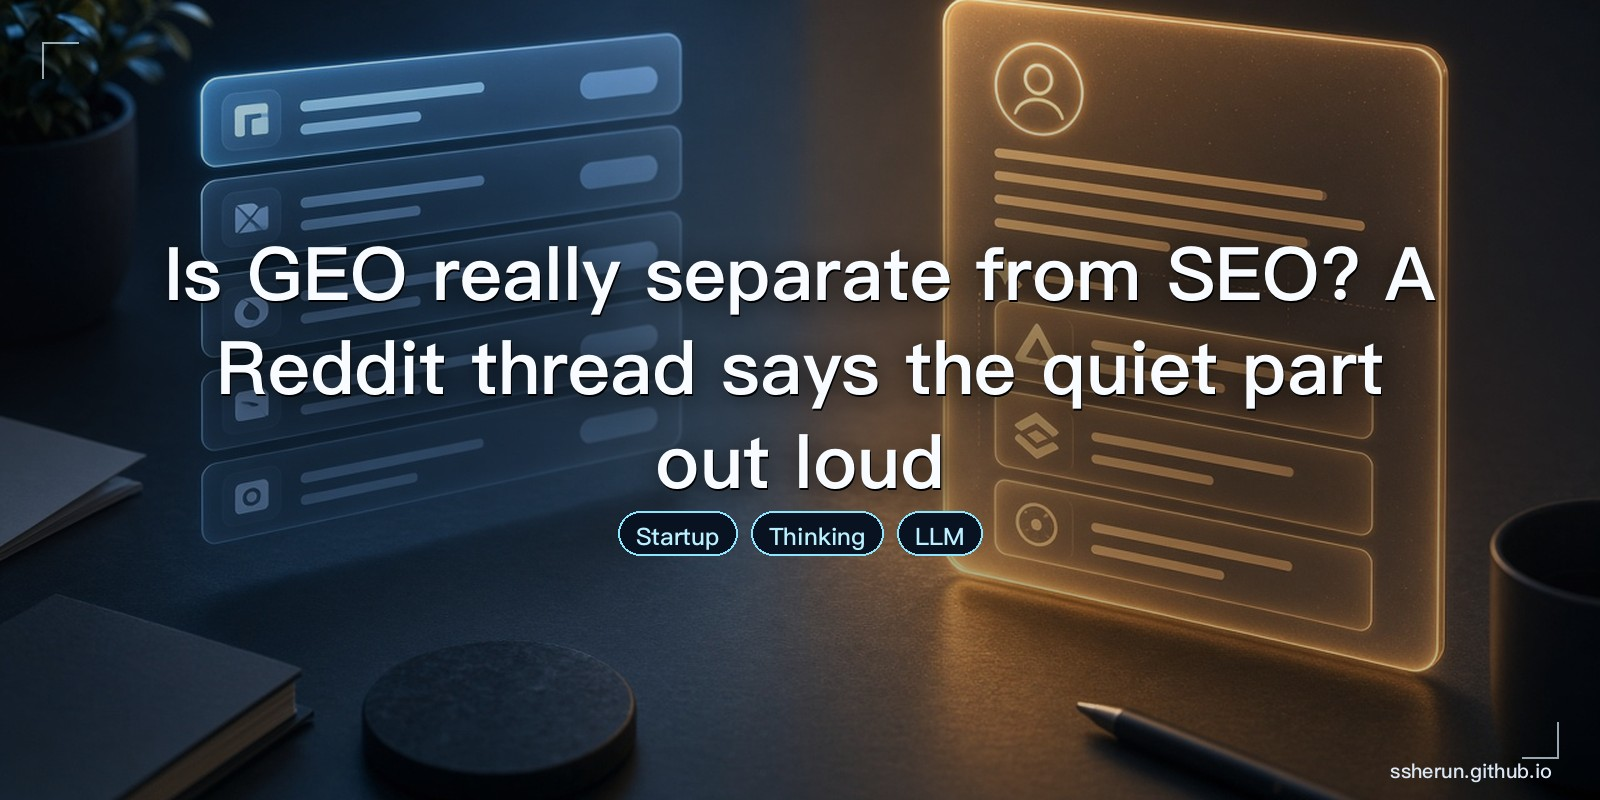
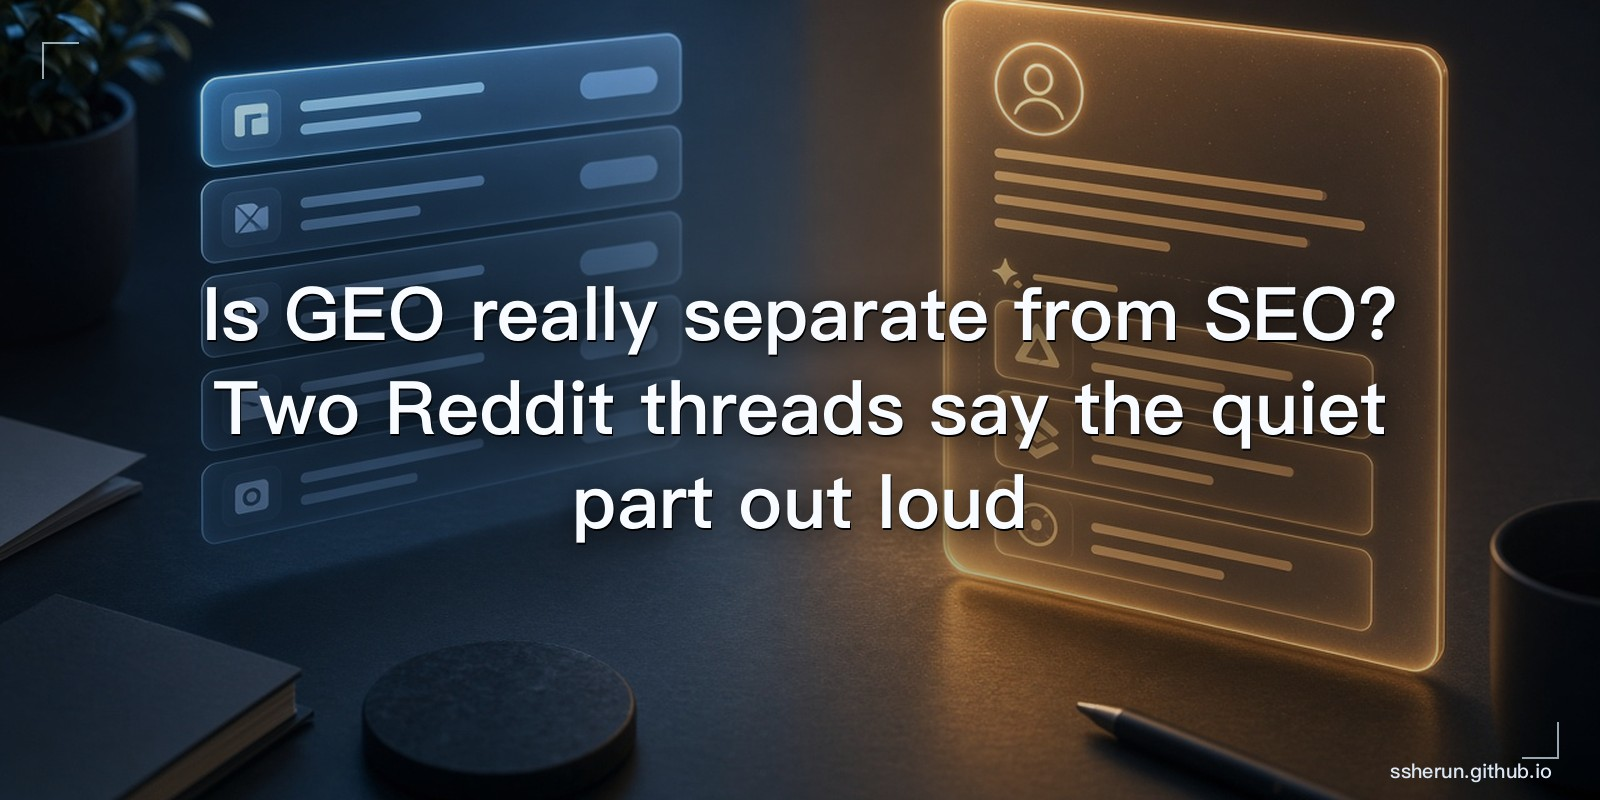
feat: supplement geo-vs-seo post with SEO_LLM field notes

Changed region(s): [[0.0938, 0.3125, 0.9062, 0.7188]]

diff --git a/src/content/blog/geo-vs-seo-same-or-separate.en.md b/src/content/blog/geo-vs-seo-same-or-separate.en.md
@@ -1,6 +1,6 @@
 ---
-title: 'Is GEO really separate from SEO? A Reddit thread says the quiet part out loud'
-description: 'In r/seogrowth someone asks whether GEO is its own discipline. One camp says it’s just SEO done right. The other says the prize changed: citations inside answers, not blue-link rank. Shared foundation; forked goals and metrics.'
+title: 'Is GEO really separate from SEO? Two Reddit threads say the quiet part out loud'
+description: 'r/seogrowth fights over whether GEO is separate; r/SEO_LLM asks what’s actually working. Shared foundation, forked goals. Google still drives most traffic; AI is a discovery channel — track leads, not mention vanity.'
 pubDate: '2026-11-11'
 heroImage: '../../assets/cover-geo-vs-seo-same-or-separate-en.jpg'
 tags: ['创业', '思考', 'LLM']
@@ -8,11 +8,15 @@ lang: en
 translationKey: 'geo-vs-seo-same-or-separate'
 ---
 
-> Source: [Not sure if GEO actually separate from SEO?](https://www.reddit.com/r/seogrowth/comments/1xsuplz/not_sure_if_geo_actually_separate_from_seo/) (r/seogrowth, ~4 upvotes / 17 comments)
+> Sources:
+> - [Not sure if GEO actually separate from SEO?](https://www.reddit.com/r/seogrowth/comments/1xsuplz/not_sure_if_geo_actually_separate_from_seo/) (r/seogrowth, ~4 upvotes / 17 comments)
+> - [What's actually working for you in SEO right now?](https://www.reddit.com/r/SEO_LLM/comments/1xsinnw/whats_actually_working_for_you_in_seo_right_now/) (r/SEO_LLM, ~13 upvotes / 10 comments)
 
 Someone posted in an SEO growth sub: they’re not sure whether **GEO (Generative Engine Optimization)** is actually a discipline separate from SEO.
 
 Small thread. Clear fight. One side: GEO is traditional SEO done properly. The other: the technical base overlaps, but what you win has changed — from “where do I rank?” to “do I get written into the answer?”
+
+Next door in r/SEO_LLM, a blunter question landed: **what’s actually working right now — Google, ChatGPT, or something else?** Almost no acronym theology. Traffic, leads, and what people changed. Read together, the theory fight and the field notes line up.
 
 ## Two camps in the comments
 
@@ -65,18 +69,34 @@ So:
 - “GEO is a brand-new field; old SEO is dead” — also too hot. Without the foundation, answer engines still can’t see you.  
 - Steadier line: **GEO is SEO retargeted for answer engines, plus extra weight on entities, off-site consistency, and citability** — neither magic rebrand nor parallel universe.
 
+## Thread two: what’s actually working
+
+The r/SEO_LLM post skips “is GEO a new field?” and asks “what are you living on?” The consensus is blunt and useful:
+
+1. **Google is still the main traffic driver.** Several practitioners said almost the same thing: Google remains the biggest source; ChatGPT and other AI tools show up, but as a smaller slice — more **discovery channel** than replacement.  
+2. **Most strategy didn’t flip:** backlinks, search intent, topical authority, useful content, clear site structure still matter. One person said the clearest add-on is **using schema more**, plus planning **article series** instead of one-off weekly posts — builds depth and removes topic panic.  
+3. **What changed is how content is structured:** fewer generic keyword piles; more **direct answers to specific questions**, original insight, topical clusters. One commenter credited that style with ChatGPT mentions.  
+4. **Off-site is more than backlinks:** brand mentions on relevant third-party sites, communities, and niche listicles keep coming up; local shops still lean on Google Business Profile + local SEO — a ChatGPT-sourced lead is nice, but advisors care more about calls and customers than mention vanity metrics.  
+5. **Measure down to leads:** a practical GA4 path — Traffic acquisition → Session source → search `chatgpt` / `perplexity` / `copilot` / `gemini`, then inspect landing pages (often how-to and comparison). Add a “how did you hear about us?” field — people often discover you in an AI answer, then return days later via Google or typed URL, and GA4 never joins the two.
+
+One line: thread two answers thread one’s fake question with field data — **not “abandon SEO”; “the SEO foundation still feeds you, and the AI exit needs its own writing, tracking, and proof.”**
+
 ## A practical split (for people drowning in acronyms)
 
 ![Shared first, then the GEO extras](../../assets/inline-geo-vs-seo-same-or-separate-03-en.jpg)
 
-1. **Fix the SEO foundation first:** crawlable, clear IA, page experience, content that states answers. The B2B case in the thread moved AI visibility mostly with that.  
-2. **Add GEO-specific moves:** entity consistency across site / directories / wiki-like pages, short extractable answer blocks, authoritative third-party mentions, platform-by-platform citation checks (AI Overviews ≠ ChatGPT ≠ Perplexity).  
-3. **Split dashboards:** keep rank/click for SEO; add a small “prompt × cited? × how the brand is phrased” table. Don’t explain “AI can’t find us” with a ranking dip alone.  
+1. **Fix the SEO foundation first:** crawlable, clear IA, page experience, content that states answers. The B2B case in thread one moved AI visibility mostly with that; thread two confirms Google is still the main engine.  
+2. **Add GEO-specific moves:** entity consistency across site / directories / wiki-like pages, short extractable answer blocks, authoritative third-party mentions and listicle presence, platform-by-platform citation checks (AI Overviews ≠ ChatGPT ≠ Perplexity); prefer topical series over scattershot keyword posts.  
+3. **Split dashboards, land on money:** keep rank/click for SEO; add “prompt × cited? × how the brand is phrased”; verify AI landings in GA4 by source; patch attribution with a form self-report; watch leads and closes, not mention dashboards alone.  
 4. **Ignore acronym racketeering:** “Learn GEO or die / old SEO is worthless” usually sells fear. “Change nothing” ignores the citation funnel.
 
-The OP asked whether GEO and SEO are separate. The best answer in the thread is the compromise said clearly:
+The first OP asked whether GEO and SEO are separate. The best answer in that thread is the compromise said clearly:
 
 > The technical base is shared — crawlability, structured data, experience still matter. The outcome is different — a good ranking does not carry over on its own.
+
+Thread two adds the street version:
+
+> Google still feeds you; AI is already a discovery door — write more like answers, earn off-site mentions, and prove it with leads, not a new religion.
 
 Not a new religion. Same content supply chain — **with one more exit that has to be measured on its own.**
 

diff --git a/src/content/blog/geo-vs-seo-same-or-separate.md b/src/content/blog/geo-vs-seo-same-or-separate.md
@@ -1,6 +1,6 @@
 ---
-title: 'GEO 和 SEO 是一回事吗？Reddit 一帖把话说穿了'
-description: 'r/seogrowth 有人问：GEO 真的独立于 SEO 吗？楼里一边说「做好的 SEO 换皮」，一边说「引用 ≠ 排名」。拆开看：底座共享，目标与计量已经分叉。'
+title: 'GEO 和 SEO 是一回事吗？Reddit 两帖把话说穿了'
+description: 'r/seogrowth 吵「GEO 是否独立」；r/SEO_LLM 问「现在什么真的管用」。底座共享、目标分叉；Google 仍是主流量，AI 是发现渠道——盯线索，别只盯提及数。'
 pubDate: '2026-11-11'
 heroImage: '../../assets/cover-geo-vs-seo-same-or-separate.jpg'
 tags: ['创业', '思考', 'LLM']
@@ -8,11 +8,15 @@ lang: zh
 translationKey: 'geo-vs-seo-same-or-separate'
 ---
 
-> 讨论来源：[Not sure if GEO actually separate from SEO?](https://www.reddit.com/r/seogrowth/comments/1xsuplz/not_sure_if_geo_actually_separate_from_seo/)（r/seogrowth，约 4↑ / 17 评）
+> 讨论来源：
+> - [Not sure if GEO actually separate from SEO?](https://www.reddit.com/r/seogrowth/comments/1xsuplz/not_sure_if_geo_actually_separate_from_seo/)（r/seogrowth，约 4↑ / 17 评）
+> - [What's actually working for you in SEO right now?](https://www.reddit.com/r/SEO_LLM/comments/1xsinnw/whats_actually_working_for_you_in_seo_right_now/)（r/SEO_LLM，约 13↑ / 10 评）
 
 有人在 SEO 增长版发帖：自己不太确定，**GEO（Generative Engine Optimization）到底是不是独立于 SEO 的新学科**。
 
 帖子不大，但楼里吵得很清楚。一边说：GEO 就是把传统 SEO 做对了。另一边说：技术底座重叠，但你要赢的东西已经变了——从「排到第几」变成「会不会被写进答案里」。
+
+隔天隔壁 r/SEO_LLM 又有人问更土的问题：**现在真正管用的是 Google、ChatGPT，还是别的？** 楼里几乎不谈缩写神学，谈的是流量、线索和改了什么。两帖合读，理论吵完，实操也对上了。
 
 ## 楼里两派
 
@@ -65,18 +69,34 @@ translationKey: 'geo-vs-seo-same-or-separate'
 - 说「GEO 是全新学科、旧 SEO 作废」——也过激。没地基，答案引擎同样看不见你。  
 - 更稳的表述：**GEO 是 SEO 在答案引擎场景下的目标重标定 + 站外/实体/可引用性加码**，不是换皮魔术，也不是平行宇宙。
 
+## 第二帖：现在「管用」的到底是什么
+
+r/SEO_LLM 那帖不问「GEO 算不算新学科」，问「你现在靠什么活着」。共识很钝、也更有用：
+
+1. **Google 仍是主流量**。多位从业者原话几乎同义：Google 还是最大流量源；ChatGPT / 其它 AI 已出现，但仍是更小的一块，更像**发现渠道**，不是替代品。  
+2. **策略大半没换**：外链、搜索意图、主题权威、真有用的内容、清晰站点结构——基础没废。有人说唯一明显加码的是 **schema 用得更多**，以及从「一篇一篇赶周更」改成**系列专题**，用来堆主题深度、也少想选题的压力。  
+3. **变的是内容怎么写**：少堆泛关键词长文，多**直接回答具体问题**、加原创洞见、把话题做成深度簇。有人靠这种写法拿到了 ChatGPT 提及。  
+4. **站外不止外链**：相关第三方站、社区、榜单/listicle 上的**品牌提及**被反复点名；本地生意则继续盯 Google Business Profile + 本地 SEO——有客户说「有人从 ChatGPT 找到我们并留下线索」，但顾问更在意电话和成交，不迷信提及数本身。  
+5. **计量要落到线索**：有人给出可立刻做的 GA4 路径——流量获客报告里把维度切到 Session source，搜 `chatgpt` / `perplexity` / `copilot` / `gemini`，再点进落地页；常见被引用的是 how-to 和对比页。同时建议在表单加「你怎么知道我们的」——很多人先在 AI 答案里看见你，再过几天用 Google 或直接输网址回来，GA4 串不上这两段。
+
+一句话：第二帖在用现场数据回答第一帖的伪问题——**不是「要不要抛弃 SEO」；是「SEO 地基还在供血，AI 出口要另算、另写、另验」。**
+
 ## 可执行的拆法（给还在纠结缩写的人）
 
 ![先共享，再加码](../../assets/inline-geo-vs-seo-same-or-separate-03.jpg)
 
-1. **先把 SEO 地基补齐**：可爬、信息架构、页面体验、说得清的内容。楼里那家 B2B 客户几乎只靠这个就抬了 AI 可见度。  
-2. **再加 GEO 特有动作**：实体一致（官网 / 目录 / 百科口径对齐）、可摘抄的短答案块、权威第三方提及、按平台看引用（Google AI Overview ≠ ChatGPT ≠ Perplexity）。  
-3. **分开看板**：SEO 看板继续看排名与点击；另建「prompt × 是否被引用 × 如何表述品牌」的小表。不要用排名下跌解释「AI 搜不到我」。  
+1. **先把 SEO 地基补齐**：可爬、信息架构、页面体验、说得清的内容。楼里那家 B2B 客户几乎只靠这个就抬了 AI 可见度；第二帖也确认 Google 仍是主引擎。  
+2. **再加 GEO 特有动作**：实体一致（官网 / 目录 / 百科口径对齐）、可摘抄的短答案块、权威第三方提及与榜单露出、按平台看引用（Google AI Overview ≠ ChatGPT ≠ Perplexity）；内容侧用系列专题替代散篇关键词文。  
+3. **分开看板，落到钱**：SEO 看板继续看排名与点击；另建「prompt × 是否被引用 × 如何表述品牌」；用 GA4 源维度核对 AI 落地页；用表单自报发现路径补归因；最终盯线索与成交，别只盯提及仪表盘。  
 4. **警惕缩写勒索**：谁跟你说「不会 GEO 就会死、旧 SEO 全废」，多半在卖恐惧。谁说「什么都不用改」，则忽略了 citation 漏斗。
 
-楼主问的是「到底分不分开」。楼里最好的答案其实是一句折中，但说透了：
+第一帖楼主问「到底分不分开」。楼里最好的答案其实是一句折中，但说透了：
 
 > 技术底座共享，所以 crawlability、structured data、体验仍重要；结果不同，所以排名好不会自动变成被引用。
+
+第二帖补了一句更接地气的：
+
+> Google 还在供血；AI 已是发现口——写得更像答案、站外有提及、用线索验，而不是换宗教。
 
 这不是新宗教，是同一条内容供应链上，**多了一个必须单独计量的出口**。
 
